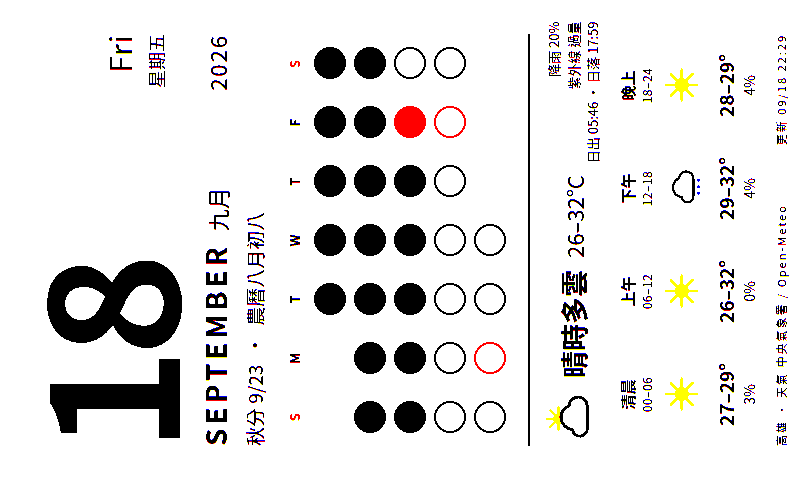
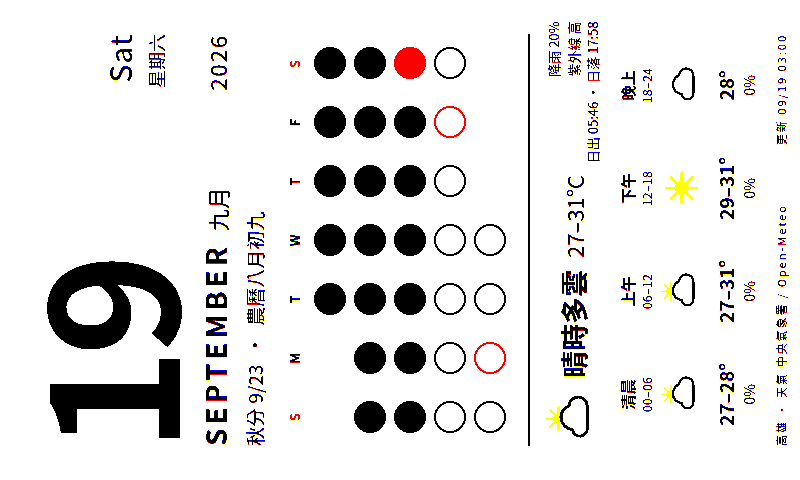
deploy: cf7d1051eb6821bc691ba0ade4beb12cdf9fe0ef

diff --git a/calendar.html b/calendar.html
@@ -47,16 +47,16 @@
 </style></head>
 <body><div class="page">
   <div class="head">
-    <div class="num">18</div>
-    <div class="wd"><div class="en">Fri</div><div class="zh">星期五</div></div>
+    <div class="num">19</div>
+    <div class="wd"><div class="en">Sat</div><div class="zh">星期六</div></div>
   </div>
   <div class="month"><span class="en">SEPTEMBER</span><span class="zh">九月</span><span class="yr">2026</span></div>
-  <div class="today"><span class="lunar">秋分 9/23</span><span>·</span><span class="lunar">農曆八月初八</span></div>
-  <div class="grid"><div class="h we">S</div><div class="h">M</div><div class="h">T</div><div class="h">W</div><div class="h">T</div><div class="h">F</div><div class="h we">S</div><div class="dot empty"></div><div class="dot empty"></div><div class="dot past" title="1"></div><div class="dot past" title="2"></div><div class="dot past" title="3"></div><div class="dot past" title="4"></div><div class="dot past" title="5"></div><div class="dot past" title="6"></div><div class="dot past" title="7"></div><div class="dot past" title="8"></div><div class="dot past" title="9"></div><div class="dot past" title="10"></div><div class="dot past" title="11"></div><div class="dot past" title="12"></div><div class="dot past" title="13"></div><div class="dot past" title="14"></div><div class="dot past" title="15"></div><div class="dot past" title="16"></div><div class="dot past" title="17"></div><div class="dot now" title="18"></div><div class="dot future" title="19"></div><div class="dot future" title="20"></div><div class="dot future" title="21"></div><div class="dot future" title="22"></div><div class="dot future" title="23"></div><div class="dot future" title="24"></div><div class="dot future hol" title="25"></div><div class="dot future" title="26"></div><div class="dot future" title="27"></div><div class="dot future hol" title="28"></div><div class="dot future" title="29"></div><div class="dot future" title="30"></div></div>
+  <div class="today"><span class="lunar">秋分 9/23</span><span>·</span><span class="lunar">農曆八月初九</span></div>
+  <div class="grid"><div class="h we">S</div><div class="h">M</div><div class="h">T</div><div class="h">W</div><div class="h">T</div><div class="h">F</div><div class="h we">S</div><div class="dot empty"></div><div class="dot empty"></div><div class="dot past" title="1"></div><div class="dot past" title="2"></div><div class="dot past" title="3"></div><div class="dot past" title="4"></div><div class="dot past" title="5"></div><div class="dot past" title="6"></div><div class="dot past" title="7"></div><div class="dot past" title="8"></div><div class="dot past" title="9"></div><div class="dot past" title="10"></div><div class="dot past" title="11"></div><div class="dot past" title="12"></div><div class="dot past" title="13"></div><div class="dot past" title="14"></div><div class="dot past" title="15"></div><div class="dot past" title="16"></div><div class="dot past" title="17"></div><div class="dot past" title="18"></div><div class="dot now" title="19"></div><div class="dot future" title="20"></div><div class="dot future" title="21"></div><div class="dot future" title="22"></div><div class="dot future" title="23"></div><div class="dot future" title="24"></div><div class="dot future hol" title="25"></div><div class="dot future" title="26"></div><div class="dot future" title="27"></div><div class="dot future hol" title="28"></div><div class="dot future" title="29"></div><div class="dot future" title="30"></div></div>
   <div class="wx"><div class="line">
-    <div class="wxhead"><svg viewBox="0 0 64 68" xmlns="http://www.w3.org/2000/svg"><g transform="translate(12 -4) scale(.6)"><circle cx="32" cy="32" r="11" fill="#f5c400"/><g stroke="#f5c400" stroke-width="4" stroke-linecap="round"><line x1="32" y1="32" x2="32" y2="8" transform="rotate(0 32 32)"/><line x1="32" y1="32" x2="32" y2="8" transform="rotate(45 32 32)"/><line x1="32" y1="32" x2="32" y2="8" transform="rotate(90 32 32)"/><line x1="32" y1="32" x2="32" y2="8" transform="rotate(135 32 32)"/><line x1="32" y1="32" x2="32" y2="8" transform="rotate(180 32 32)"/><line x1="32" y1="32" x2="32" y2="8" transform="rotate(225 32 32)"/><line x1="32" y1="32" x2="32" y2="8" transform="rotate(270 32 32)"/><line x1="32" y1="32" x2="32" y2="8" transform="rotate(315 32 32)"/></g></g><path d="M20 50h26a11 11 0 0 0 1-22 15 15 0 0 0-29 4 9 9 0 0 0 2 18z" fill="#fff" stroke="#000" stroke-width="3.5" stroke-linejoin="round"/></svg><span class="desc">晴時多雲</span><span class="temp">26–32°C</span>
-      <div class="meta">降雨 20%<br>紫外線 過量<br>日出 05:46 · 日落 17:59</div></div>
-    <div class="slots"><div class="slot"><div class="n">清晨</div><div class="hrs">00–06</div><svg viewBox="0 0 64 68" xmlns="http://www.w3.org/2000/svg"><circle cx="32" cy="32" r="11" fill="#f5c400"/><g stroke="#f5c400" stroke-width="4" stroke-linecap="round"><line x1="32" y1="32" x2="32" y2="8" transform="rotate(0 32 32)"/><line x1="32" y1="32" x2="32" y2="8" transform="rotate(45 32 32)"/><line x1="32" y1="32" x2="32" y2="8" transform="rotate(90 32 32)"/><line x1="32" y1="32" x2="32" y2="8" transform="rotate(135 32 32)"/><line x1="32" y1="32" x2="32" y2="8" transform="rotate(180 32 32)"/><line x1="32" y1="32" x2="32" y2="8" transform="rotate(225 32 32)"/><line x1="32" y1="32" x2="32" y2="8" transform="rotate(270 32 32)"/><line x1="32" y1="32" x2="32" y2="8" transform="rotate(315 32 32)"/></g></svg><div class="t">27–29°</div><div class="p dry">3%</div></div><div class="slot"><div class="n">上午</div><div class="hrs">06–12</div><svg viewBox="0 0 64 68" xmlns="http://www.w3.org/2000/svg"><circle cx="32" cy="32" r="11" fill="#f5c400"/><g stroke="#f5c400" stroke-width="4" stroke-linecap="round"><line x1="32" y1="32" x2="32" y2="8" transform="rotate(0 32 32)"/><line x1="32" y1="32" x2="32" y2="8" transform="rotate(45 32 32)"/><line x1="32" y1="32" x2="32" y2="8" transform="rotate(90 32 32)"/><line x1="32" y1="32" x2="32" y2="8" transform="rotate(135 32 32)"/><line x1="32" y1="32" x2="32" y2="8" transform="rotate(180 32 32)"/><line x1="32" y1="32" x2="32" y2="8" transform="rotate(225 32 32)"/><line x1="32" y1="32" x2="32" y2="8" transform="rotate(270 32 32)"/><line x1="32" y1="32" x2="32" y2="8" transform="rotate(315 32 32)"/></g></svg><div class="t">26–32°</div><div class="p dry">0%</div></div><div class="slot"><div class="n">下午</div><div class="hrs">12–18</div><svg viewBox="0 0 64 68" xmlns="http://www.w3.org/2000/svg"><path d="M20 50h26a11 11 0 0 0 1-22 15 15 0 0 0-29 4 9 9 0 0 0 2 18z" fill="#fff" stroke="#000" stroke-width="3.5" stroke-linejoin="round"/><g fill="#0040ff"><circle cx="24" cy="58" r="2.2"/><circle cx="34" cy="58" r="2.2"/><circle cx="44" cy="58" r="2.2"/></g></svg><div class="t">29–32°</div><div class="p dry">4%</div></div><div class="slot"><div class="n">晚上</div><div class="hrs">18–24</div><svg viewBox="0 0 64 68" xmlns="http://www.w3.org/2000/svg"><circle cx="32" cy="32" r="11" fill="#f5c400"/><g stroke="#f5c400" stroke-width="4" stroke-linecap="round"><line x1="32" y1="32" x2="32" y2="8" transform="rotate(0 32 32)"/><line x1="32" y1="32" x2="32" y2="8" transform="rotate(45 32 32)"/><line x1="32" y1="32" x2="32" y2="8" transform="rotate(90 32 32)"/><line x1="32" y1="32" x2="32" y2="8" transform="rotate(135 32 32)"/><line x1="32" y1="32" x2="32" y2="8" transform="rotate(180 32 32)"/><line x1="32" y1="32" x2="32" y2="8" transform="rotate(225 32 32)"/><line x1="32" y1="32" x2="32" y2="8" transform="rotate(270 32 32)"/><line x1="32" y1="32" x2="32" y2="8" transform="rotate(315 32 32)"/></g></svg><div class="t">28–29°</div><div class="p dry">4%</div></div></div>
+    <div class="wxhead"><svg viewBox="0 0 64 68" xmlns="http://www.w3.org/2000/svg"><g transform="translate(12 -4) scale(.6)"><circle cx="32" cy="32" r="11" fill="#f5c400"/><g stroke="#f5c400" stroke-width="4" stroke-linecap="round"><line x1="32" y1="32" x2="32" y2="8" transform="rotate(0 32 32)"/><line x1="32" y1="32" x2="32" y2="8" transform="rotate(45 32 32)"/><line x1="32" y1="32" x2="32" y2="8" transform="rotate(90 32 32)"/><line x1="32" y1="32" x2="32" y2="8" transform="rotate(135 32 32)"/><line x1="32" y1="32" x2="32" y2="8" transform="rotate(180 32 32)"/><line x1="32" y1="32" x2="32" y2="8" transform="rotate(225 32 32)"/><line x1="32" y1="32" x2="32" y2="8" transform="rotate(270 32 32)"/><line x1="32" y1="32" x2="32" y2="8" transform="rotate(315 32 32)"/></g></g><path d="M20 50h26a11 11 0 0 0 1-22 15 15 0 0 0-29 4 9 9 0 0 0 2 18z" fill="#fff" stroke="#000" stroke-width="3.5" stroke-linejoin="round"/></svg><span class="desc">晴時多雲</span><span class="temp">27–31°C</span>
+      <div class="meta">降雨 20%<br>紫外線 高<br>日出 05:46 · 日落 17:58</div></div>
+    <div class="slots"><div class="slot"><div class="n">清晨</div><div class="hrs">00–06</div><svg viewBox="0 0 64 68" xmlns="http://www.w3.org/2000/svg"><g transform="translate(12 -4) scale(.6)"><circle cx="32" cy="32" r="11" fill="#f5c400"/><g stroke="#f5c400" stroke-width="4" stroke-linecap="round"><line x1="32" y1="32" x2="32" y2="8" transform="rotate(0 32 32)"/><line x1="32" y1="32" x2="32" y2="8" transform="rotate(45 32 32)"/><line x1="32" y1="32" x2="32" y2="8" transform="rotate(90 32 32)"/><line x1="32" y1="32" x2="32" y2="8" transform="rotate(135 32 32)"/><line x1="32" y1="32" x2="32" y2="8" transform="rotate(180 32 32)"/><line x1="32" y1="32" x2="32" y2="8" transform="rotate(225 32 32)"/><line x1="32" y1="32" x2="32" y2="8" transform="rotate(270 32 32)"/><line x1="32" y1="32" x2="32" y2="8" transform="rotate(315 32 32)"/></g></g><path d="M20 50h26a11 11 0 0 0 1-22 15 15 0 0 0-29 4 9 9 0 0 0 2 18z" fill="#fff" stroke="#000" stroke-width="3.5" stroke-linejoin="round"/></svg><div class="t">27–28°</div><div class="p dry">0%</div></div><div class="slot"><div class="n">上午</div><div class="hrs">06–12</div><svg viewBox="0 0 64 68" xmlns="http://www.w3.org/2000/svg"><g transform="translate(12 -4) scale(.6)"><circle cx="32" cy="32" r="11" fill="#f5c400"/><g stroke="#f5c400" stroke-width="4" stroke-linecap="round"><line x1="32" y1="32" x2="32" y2="8" transform="rotate(0 32 32)"/><line x1="32" y1="32" x2="32" y2="8" transform="rotate(45 32 32)"/><line x1="32" y1="32" x2="32" y2="8" transform="rotate(90 32 32)"/><line x1="32" y1="32" x2="32" y2="8" transform="rotate(135 32 32)"/><line x1="32" y1="32" x2="32" y2="8" transform="rotate(180 32 32)"/><line x1="32" y1="32" x2="32" y2="8" transform="rotate(225 32 32)"/><line x1="32" y1="32" x2="32" y2="8" transform="rotate(270 32 32)"/><line x1="32" y1="32" x2="32" y2="8" transform="rotate(315 32 32)"/></g></g><path d="M20 50h26a11 11 0 0 0 1-22 15 15 0 0 0-29 4 9 9 0 0 0 2 18z" fill="#fff" stroke="#000" stroke-width="3.5" stroke-linejoin="round"/></svg><div class="t">27–31°</div><div class="p dry">0%</div></div><div class="slot"><div class="n">下午</div><div class="hrs">12–18</div><svg viewBox="0 0 64 68" xmlns="http://www.w3.org/2000/svg"><circle cx="32" cy="32" r="11" fill="#f5c400"/><g stroke="#f5c400" stroke-width="4" stroke-linecap="round"><line x1="32" y1="32" x2="32" y2="8" transform="rotate(0 32 32)"/><line x1="32" y1="32" x2="32" y2="8" transform="rotate(45 32 32)"/><line x1="32" y1="32" x2="32" y2="8" transform="rotate(90 32 32)"/><line x1="32" y1="32" x2="32" y2="8" transform="rotate(135 32 32)"/><line x1="32" y1="32" x2="32" y2="8" transform="rotate(180 32 32)"/><line x1="32" y1="32" x2="32" y2="8" transform="rotate(225 32 32)"/><line x1="32" y1="32" x2="32" y2="8" transform="rotate(270 32 32)"/><line x1="32" y1="32" x2="32" y2="8" transform="rotate(315 32 32)"/></g></svg><div class="t">29–31°</div><div class="p dry">0%</div></div><div class="slot"><div class="n">晚上</div><div class="hrs">18–24</div><svg viewBox="0 0 64 68" xmlns="http://www.w3.org/2000/svg"><path d="M20 50h26a11 11 0 0 0 1-22 15 15 0 0 0-29 4 9 9 0 0 0 2 18z" fill="#fff" stroke="#000" stroke-width="3.5" stroke-linejoin="round"/></svg><div class="t">28°</div><div class="p dry">0%</div></div></div>
   </div></div>
-  <div class="foot"><span>高雄 · 天氣 中央氣象署 / Open-Meteo</span><span>更新 09/18 22:29</span></div>
+  <div class="foot"><span>高雄 · 天氣 中央氣象署 / Open-Meteo</span><span>更新 09/19 03:00</span></div>
 </div></body></html>
